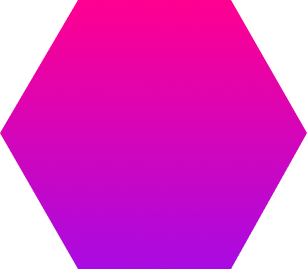
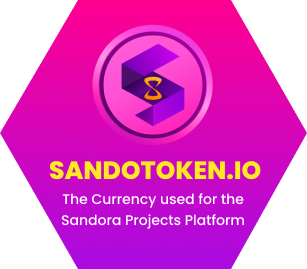
update

Changed region(s): [[0.2932, 0.0892, 0.7036, 0.5353], [0.1466, 0.5948, 0.8502, 0.684], [0.2052, 0.7138, 0.7915, 0.8625]]

diff --git a/src/components/Project.tsx b/src/components/Project.tsx
@@ -4,30 +4,120 @@ const chill = () => {
   return (
     <div>
       <p>hello</p>
-      <h1>hi
-
-      </h1>
+      <h1>hi</h1>
     </div>
   );
 };
 const Project = () => {
   return (
-    <div className=" p-10 bg-transparent container mx-auto max-w-screen-xl">
-      <h1 className="text-[35px] font-bold text-transparent textgradient-white">
-        PROJECT
-      </h1>
-      <Hexagon
-        className=" w-[307px] h-[269px]"
-        backgroundImage="images/sando.png"
-        flatTop
-        style={{
-          padding: "50px",
-          width: "307px",
-          height: "269px",
-          stroke: "none",
-        }}
-        href="http://espen.codes/"
-      />
+    <div className="bg-[url('/images/project-bg.png')] bg-cover bg-center h-[1083px]">
+      <div className=" p-10 bg-transparent container mx-auto max-w-screen-xl ">
+        <h1 className="text-[35px] font-bold text-transparent textgradient-white">
+          PROJECT
+        </h1>
+        <div className=" pt-10 flex  justify-center ">
+          <div className=" flex-col  flex   ">
+            <div className="hex bg-gradient-to-b from-[#FF0090] to-[#A90AE1] w-[317px] h-[279px] flex flex-col items-center p-3">
+              <img
+                src="/images/logo/logo-sando.png"
+                className="w-[140px]"
+                alt=""
+              />
+              <h1 className=" text-[#FFE921] font-extrabold text-[25px]">
+                SANDOTOKEN.IO
+              </h1>
+              <p className=" text-[14px] text-center max-w-[200px]">
+                The Currency used for the Sandora Projects Platform
+              </p>
+            </div>
+          </div>
+          <div className=" flex-col flex ml-[-70px] mt-[-9px]   ">
+            <div className="hex  translate-y-[50%] oceansky w-[317px] h-[279px] flex flex-col items-center p-3">
+              <img
+                src="/images/logo/logo-oceansky.png"
+                className="w-[140px]"
+                alt=""
+              />
+              <h1 className=" text-[#FFE921] font-extrabold text-[25px]">
+              OCEANSKY.IO
+              </h1>
+              <p className=" text-[14px] text-center max-w-[200px]">
+              NFTs Merketplce Platform on Ethereum Chain Network
+              </p>
+            </div>
+          </div>
+          <div className=" flex-col flex ml-[-70px]  ">
+            <div className="hex   solsky w-[317px] h-[279px] flex flex-col items-center p-3">
+              <img
+                src="/images/logo/logo-solsky.png"
+                className="w-[140px]"
+                alt=""
+              />
+              <h1 className=" text-white font-extrabold text-[25px]">
+              SOLSKY.IO
+              </h1>
+              <p className=" text-[14px] text-center max-w-[200px]">
+              NFTs Marketplace Platform on Solana Chain Network
+              </p>
+            </div>
+            <div className="hex bg-gradient-to-b mt-[-18px] from-[#CC00FF] to-[#320071] w-[317px] h-[279px] flex flex-col  items-center justify-center p-3">
+              <img
+                src="/images/logo/logo-monster.png"
+                className="w-[218px] h-[79px]"
+                alt=""
+              />
+              <h1 className="  text-transparent textgradient-green font-extrabold text-[25px]">
+              MONSTERRUNNER.IO
+              </h1>
+              <p className=" text-[14px] text-center max-w-[200px]">
+              Metaverse <br/>GameFi & Play-to-Earn
+              </p>
+            </div>
+            <div className="hex bg-gradient-to-b mt-[-18px] from-[#CC00FF] to-[#320071] w-[317px] h-[279px] flex flex-col items-center justify-center p-3">
+              <img
+                src="/images/logo/logo-city.png"
+                className="w-[249px] h-[118px]"
+                alt=""
+              />
+              <h1 className="  text-transparent textgradient-green font-extrabold text-[25px]">
+              SANDOCITY.IO
+              </h1>
+              <p className=" text-[14px] text-center max-w-[200px]">
+              The Future Virtual <br/> Metaverse Game
+              </p>
+            </div>
+         
+          </div>
+          <div className=" flex-col flex ml-[-70px] mt-[-9px]">
+            <div className="hex translate-y-[50%] metasando w-[317px] h-[279px] flex flex-col items-center p-3">
+              <img
+                src="/images/logo/logo-metasando.png"
+                className="w-[140px]"
+                alt=""
+              />
+              <h1 className="  text-transparent textgradient-yellow font-extrabold text-[25px]">
+              METASANDO.IO
+              </h1>
+              <p className=" text-[14px] text-center max-w-[200px]">
+              Metaverse Game NFTs Marketplace Platform on Cross Chain Bridge
+              </p>
+            </div>
+            <div className="hex bg-gradient-to-b mt-[-18px] translate-y-[50%] from-[#FF0090] to-[#A90AE1] w-[317px] h-[279px] flex flex-col items-center  pt-5 p-3">
+              <img
+                src="/images/logo/logo-spin.png"
+                className="w-[140px]"
+                alt=""
+              />
+              <h1 className="  text-transparent textgradient-green font-extrabold text-[25px]">
+              METASPINWHEEL.IO
+              </h1>
+              <p className=" text-[14px] text-center max-w-[200px]">
+              Metaverse <br/> GameFi & Play-to-Earn
+              </p>
+            </div>
+          </div>
+        </div>
+      </div>
     </div>
   );
 };

diff --git a/src/styles/globals.css b/src/styles/globals.css
@@ -37,3 +37,28 @@ a {
 -webkit-text-fill-color: transparent;
 background-clip: text;
 }
+.textgradient-yellow{
+  background: linear-gradient(135.67deg, #FBB820 35.49%, #FF8159 58.84%);
+-webkit-background-clip: text;
+-webkit-text-fill-color: transparent;
+background-clip: text;
+}
+.textgradient-green{
+  background: linear-gradient(90.51deg, #00FF57 4.61%, #EBFF0B 80.41%);
+-webkit-background-clip: text;
+-webkit-text-fill-color: transparent;
+background-clip: text;
+}
+.hex {
+  -webkit-clip-path: polygon(25% 5%, 75% 5%, 100% 50%, 75% 95%, 25% 95%, 0% 50%);
+  clip-path: polygon(25% 5%, 75% 5%, 100% 50%, 75% 95%, 25% 95%, 0% 50%);
+}
+.oceansky{
+background: radial-gradient(42.01% 42.01% at 52.77% 50.19%, #0098FF 0%, #0067FF 47.92%, #0A5DD8 85.42%)
+}
+.solsky{
+  background: radial-gradient(64.87% 64.87% at 50% 50%, #0317CC 0%, #091023 100%)
+}
+.metasando{
+  background: radial-gradient(58.55% 58.55% at 50% 50%, #B903FC 0%, #091023 100%)
+}
